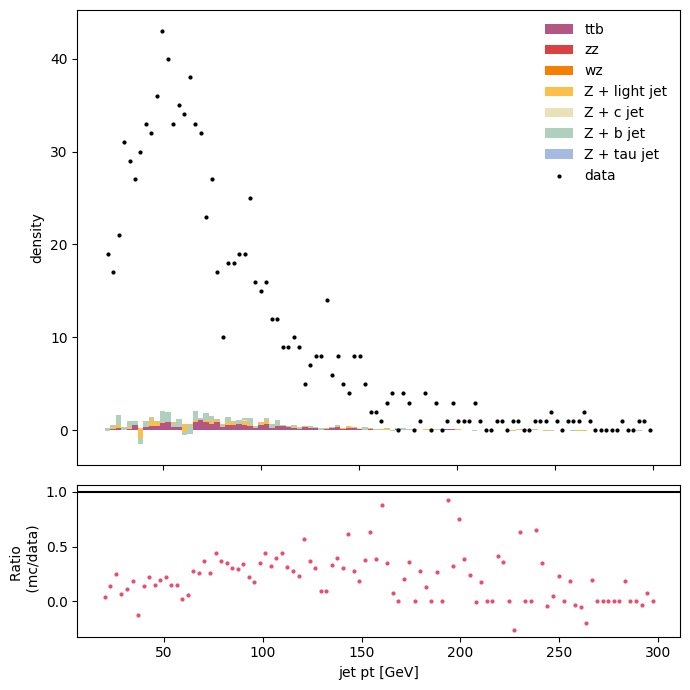
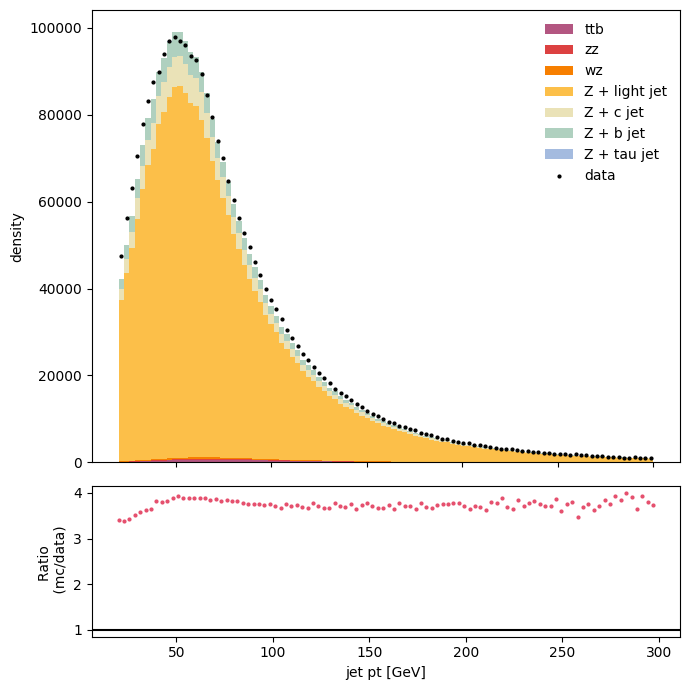
adding double b, double c and b+c jet class to selection

diff --git a/scripts/plot_mc_vs_data_histograms.py b/scripts/plot_mc_vs_data_histograms.py
@@ -66,7 +66,7 @@ def plot_ratio_hist(vals_mc:list[pd.Series],vals_dat:pd.Series,weights:list[pd.S
     ax1.scatter(bins[:-1]+ 0.5*(bins[1:] - bins[:-1]), dat_n, marker='o', c='black', s=4, alpha=1, label='data')
     ax1.legend(frameon=False)
     # import ipdb; ipdb.set_trace()
-    ratio = np.divide(sum(mc_ns),dat_n,out=np.zeros_like(dat_n), where=dat_n!=0)
+    ratio = np.divide(mc_ns[-1],dat_n,out=np.zeros_like(dat_n), where=dat_n!=0)
     honolulu = '#E54F6D'
     ax2.scatter(bins[:-1], ratio, color=honolulu, s=4)
     ax2.set_xlabel(xlabel)
@@ -84,6 +84,7 @@ if __name__ == '__main__':
 
     parser = argparse.ArgumentParser(description='read arguments for histogramming')
     tt = parser.add_argument('-n', dest='N', default=None, type=int, help='number of samples to be read for each datatype')
+    parser.add_argument('-f', dest='feat', choices=['pt','eta'], help='feature to plot')
     args = parser.parse_args()
 
 
@@ -91,7 +92,15 @@ if __name__ == '__main__':
     #                    read MC & data                           #
     # *********************************************************** #
 
-    feature_names = ['jet_pt_lead', stco.JET_TRUTH+'_lead', 'wt', 'dsid']
+    feat_dd = {
+        'pt' : {'name':'jet_pt_lead', 'xlabel': 'jet pt [GeV]', 'max':300},
+        'eta' : {'name':'jet_eta_lead','xlabel': 'jet eta','max':None}
+    }
+
+    feat_name = feat_dd[args.feat]['name']
+    xlabel = feat_dd[args.feat]['xlabel']
+    val_max = feat_dd[args.feat]['max']
+    feature_names = [feat_name, stco.JET_TRUTH+'_lead', 'wt', 'dsid']
 
     #***************************** MC *************************** #
 
@@ -124,18 +133,17 @@ if __name__ == '__main__':
 
     # assemble samples to plot
 
-    # mc
-    vals_mc = [v/1e3 for v in [ttb.jet_pt_lead, zz.jet_pt_lead, wz.jet_pt_lead, jetU.jet_pt_lead, jetC.jet_pt_lead, jetB.jet_pt_lead, jetT.jet_pt_lead]]
+    vals_mc = [ttb[feat_name], zz[feat_name], wz[feat_name], jetU[feat_name], jetC[feat_name], jetB[feat_name], jetT[feat_name]]
+    vals_dat = dat[feat_name]
+    if 'pt' in feat_name: 
+        vals_mc = [v/1e3 for v in vals_mc]
+        vals_dat = vals_dat/1e3
     weights = [ttb.wt, zz.wt, wz.wt, jetU.wt, jetC.wt, jetB.wt, jetT.wt]
     labels = ['ttb', 'zz', 'wz', 'Z + light jet', 'Z + c jet', 'Z + b jet', 'Z + tau jet']
-    # data
-    vals_dat = dat.jet_pt_lead/1e3
-    val_max = 300
-    xlabel = 'jet pt [GeV]'
 
     # plot
-
-    plot_ratio_hist(vals_mc=vals_mc,vals_dat=vals_dat,weights=weights,labels=labels,val_max=val_max,xlabel=xlabel,plot_name='hist_mc_vs_dat_jet_pt')
+    plot_name = 'hist_mc_vs_dat_'+feat_name
+    plot_ratio_hist(vals_mc=vals_mc,vals_dat=vals_dat,weights=weights,labels=labels,val_max=val_max,xlabel=xlabel,plot_name=plot_name)
 
     
 

diff --git a/src/util.py b/src/util.py
@@ -24,11 +24,11 @@ def split_by_jet_flavor(samples:awk.highlevel.Array|pd.DataFrame, jet_truth_var:
 	ZplusLight = samples[light_mask]
 
 	# Z+c-jets
-	charm_mask = samples[jet_truth_var] == stco.JET_C
+	charm_mask = (samples[jet_truth_var] == stco.JET_C) or (samples[jet_truth_var] == stco.JET_C_DB) 
 	ZplusC = samples[charm_mask]
 
 	# Z+b-jets
-	b_mask = samples[jet_truth_var] == stco.JET_B
+	b_mask = (samples[jet_truth_var] == stco.JET_B) or (samples[jet_truth_var] == stco.JET_B_DB) or (samples[jet_truth_var] == stco.JET_BC)
 	ZplusB = samples[b_mask]
 
 	# Z+tau-jets

diff --git a/src/string_constants.py b/src/string_constants.py
@@ -35,7 +35,7 @@ ds_ids_bg = {
 
 ds_ids_all = list(ds_ids_bg.values()) + sum(list(ds_ids_sig.values()),[])
 
-JET_U, JET_C, JET_B, JET_T = 0, 4, 5, 15
+JET_U, JET_C, JET_C_DB, JET_B, JET_BC, JET_B_DB, JET_T = 0, 4, 44, 5, 54, 55, 15
 JET_TRUTH = 'jet_truthflavExtended'
 
 feature_names = ['el_e','mu_e','el_charge','mu_charge','el_pt','mu_pt', 'el_phi','mu_phi', 'el_eta', 'mu_eta', \
